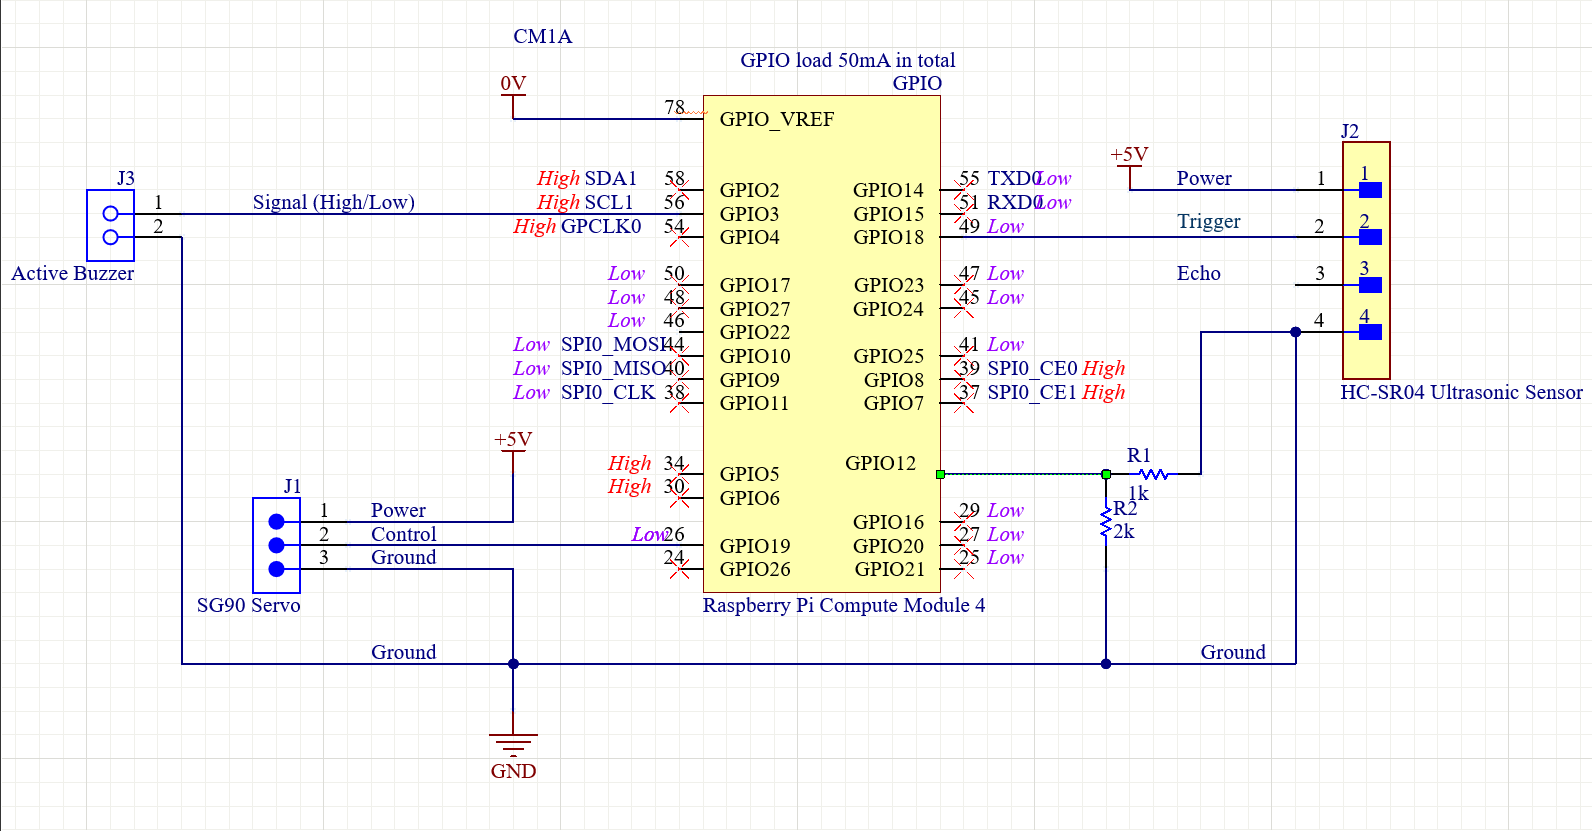
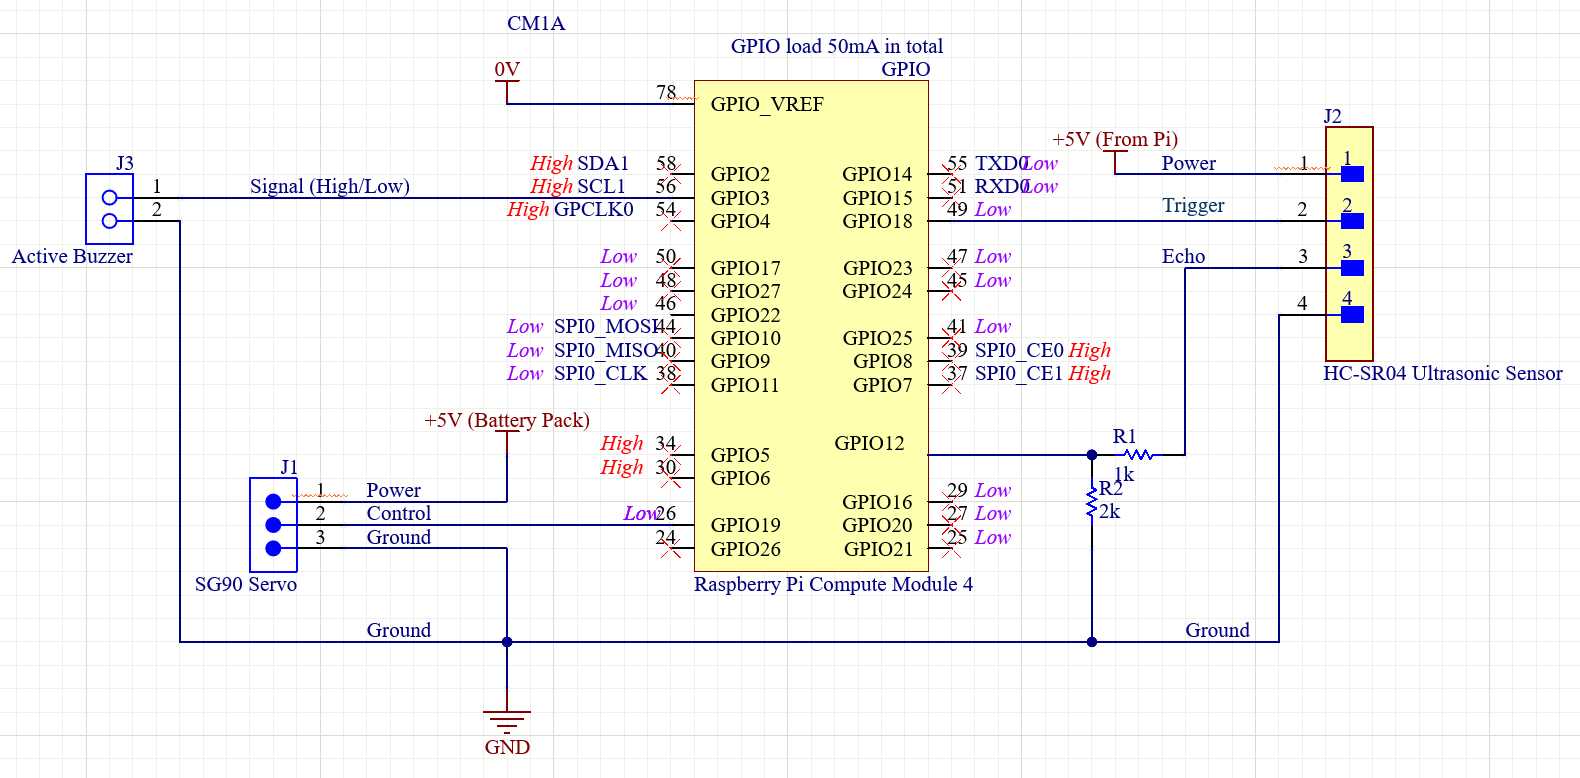
Added updated circuit diagram to docs folder and second devlog to devlogs folder

diff --git a/devlogs/chigo/devlog-2.md b/devlogs/chigo/devlog-2.md
@@ -1,0 +1,24 @@
+# Dev Log #2 — Hardware Revision and Updates
+
+**Date: 2026-03-31**
+
+## Goal(s)
+
+- Finalize circuit and ensure all connections are reliably made by removing them from breadboard and soldering them to a prototype board
+- Voltage divider to ensure echo pin (Pin 12) on the HC SR04 Ultrasonic Sensor receives proper voltage
+
+## Implementation
+
+- 1kΩ and 2kΩ resistors used in voltage divider.
+- Voltage divider, button, and ground rail will be soldered to a prototype board.
+
+
+## Results
+
+- Echo pin on the HC SR04 Ultrasonic Sensor receives proper voltage (3.3V)
+- Reliable connections of all components have been established by soldering them to the prototype board
+
+
+## Next Steps
+
+- Develop PCB to eliminate need for excessive external wiring (Chigo)
